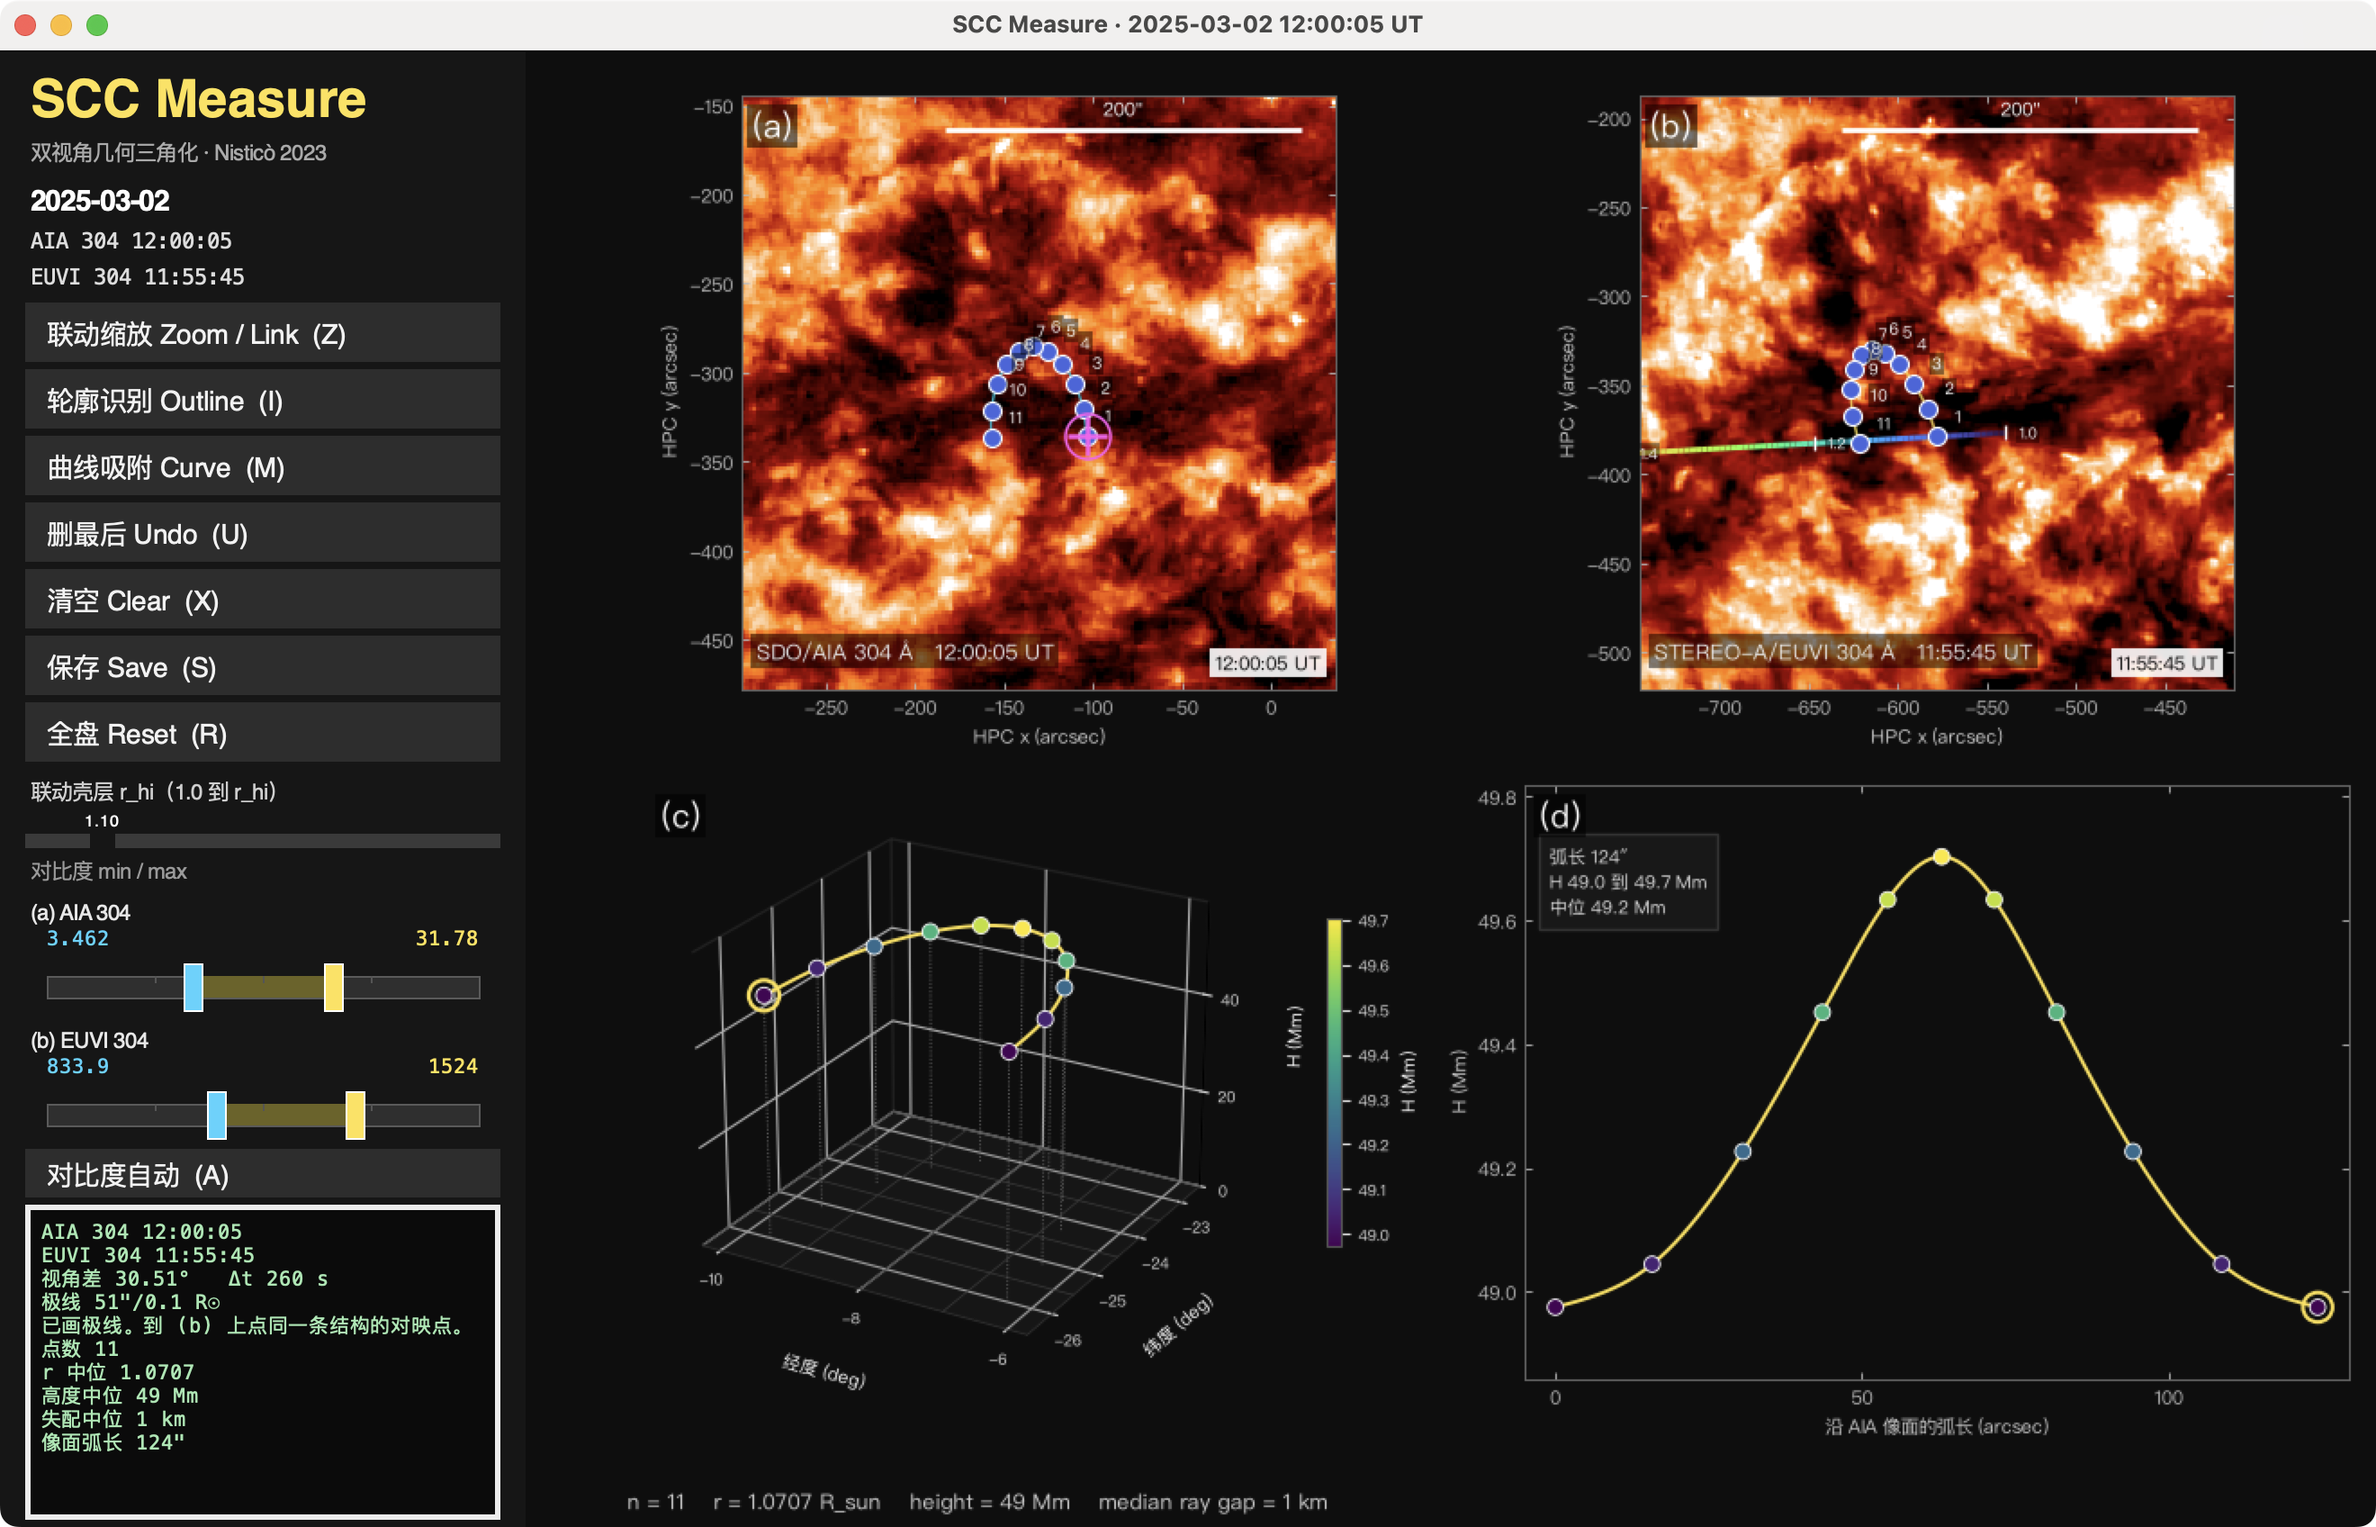
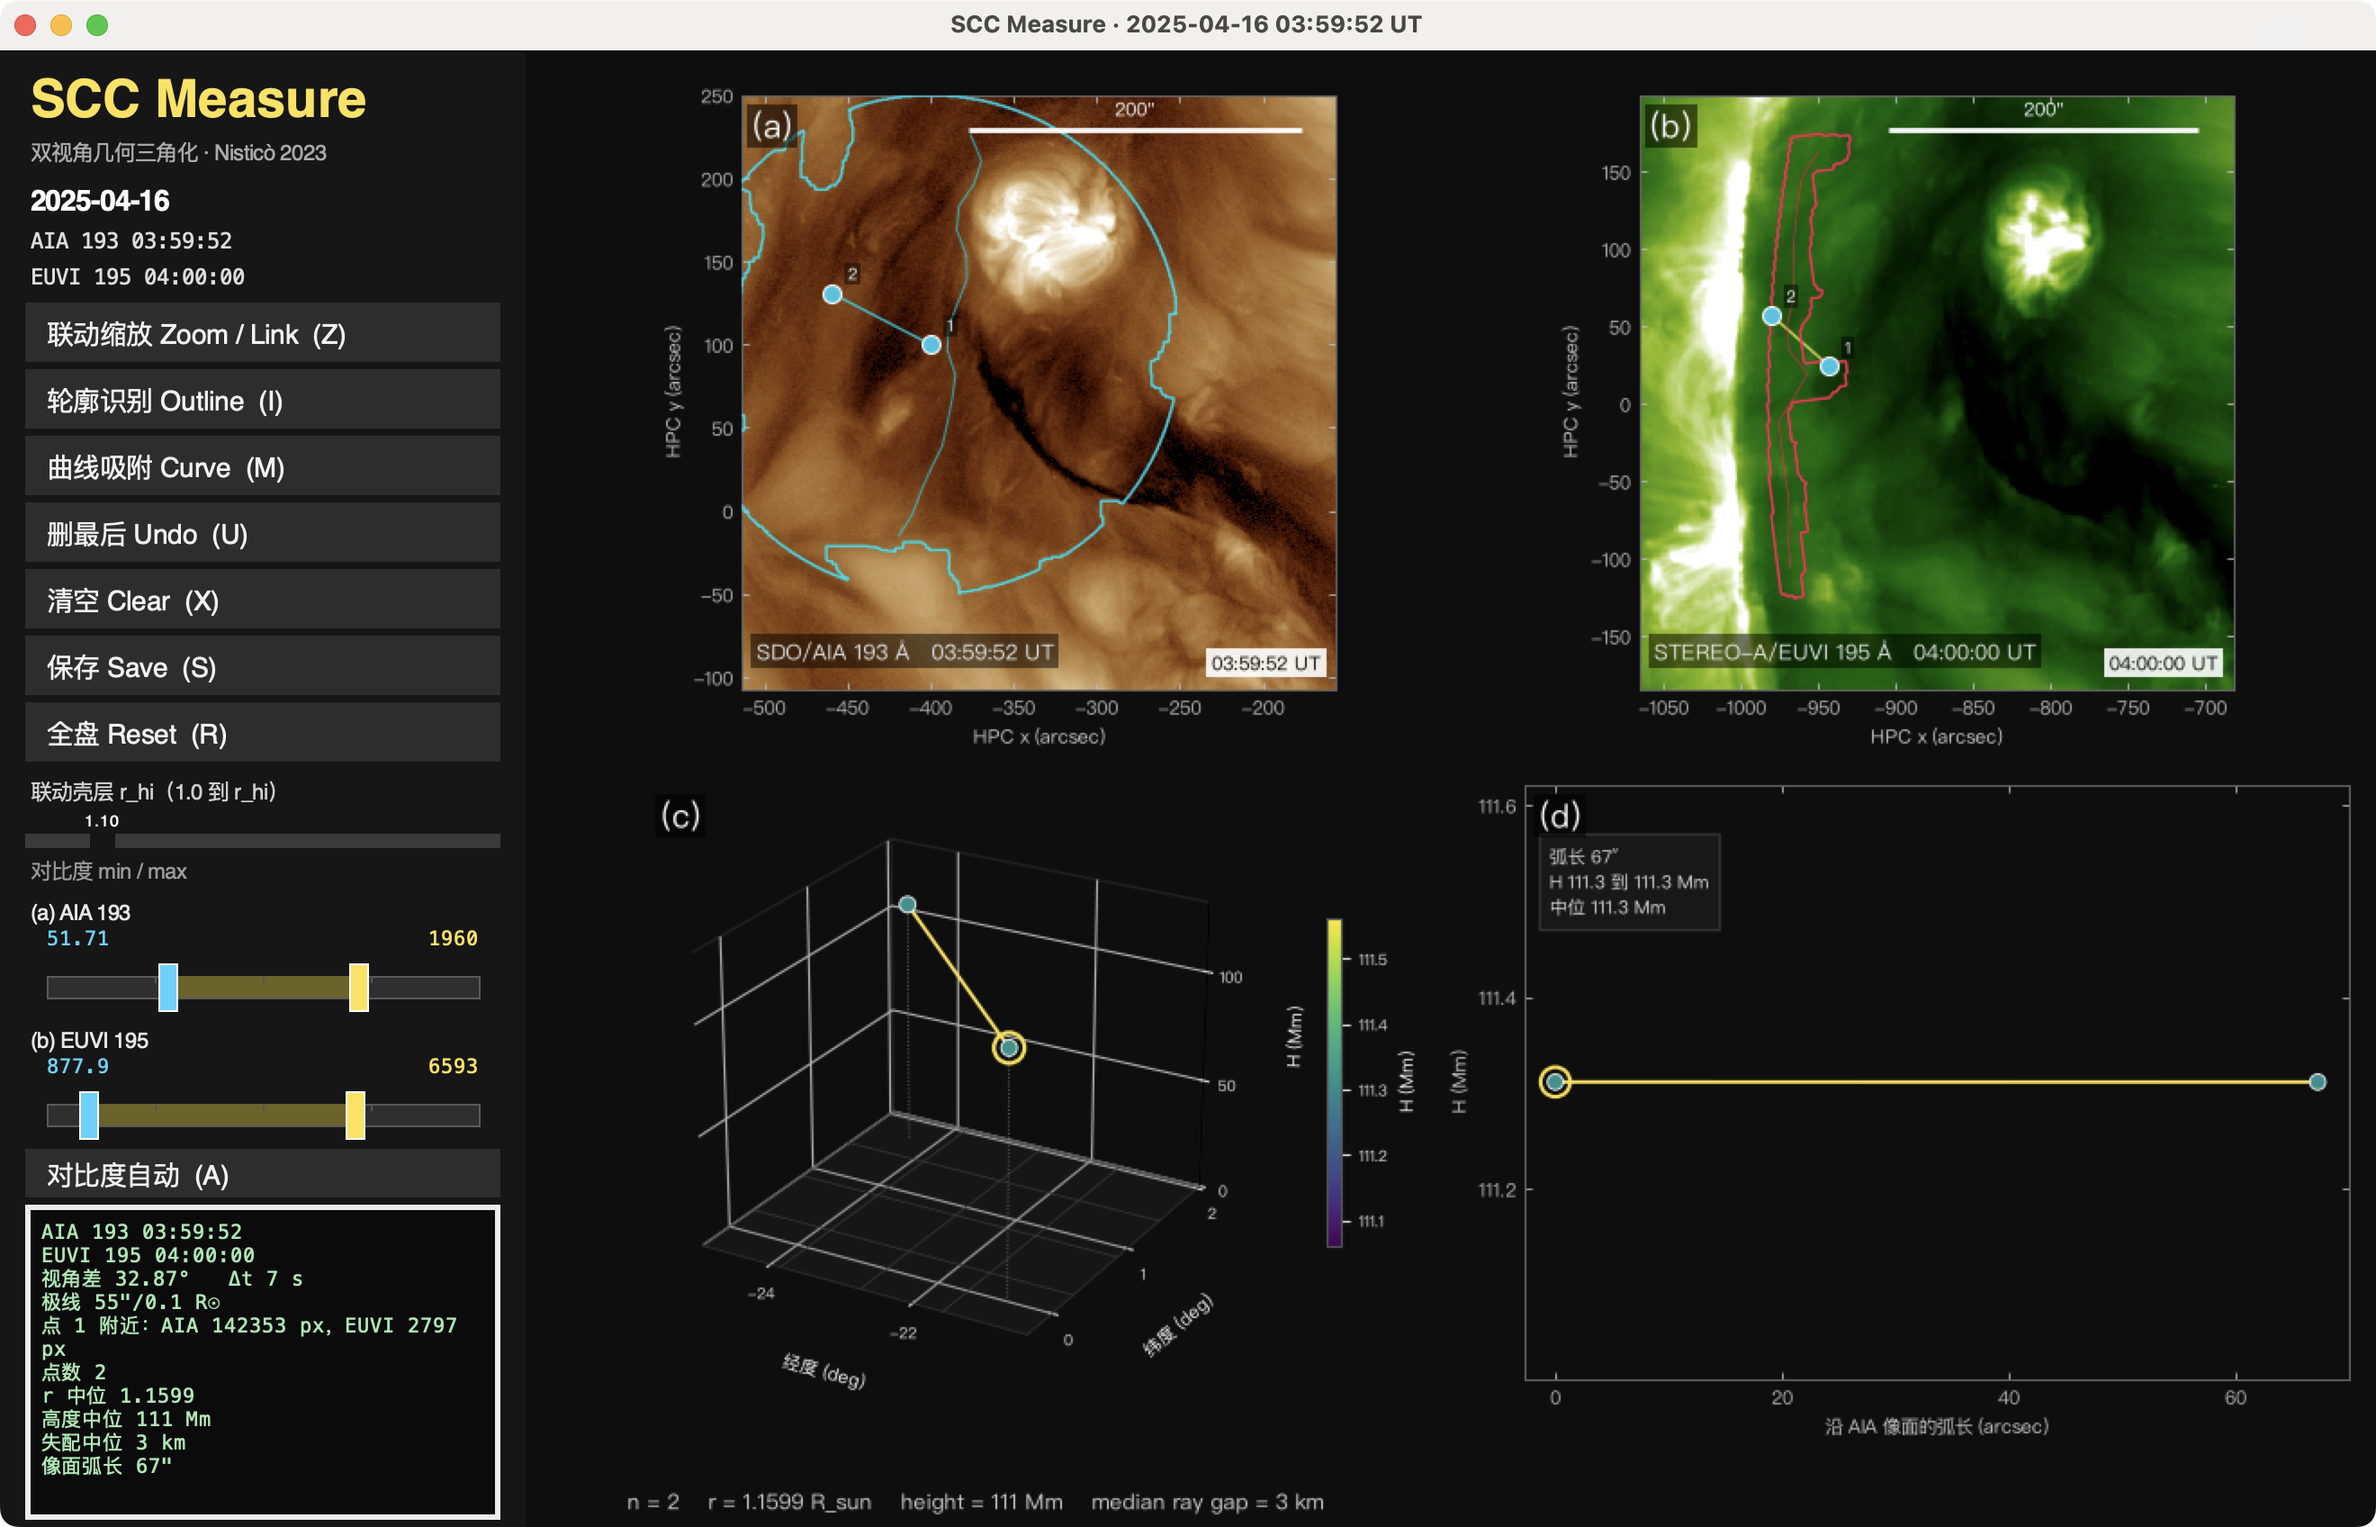
docs: use the 193/195 screenshot and remove stale band mentions

diff --git a/README.md b/README.md
@@ -174,7 +174,7 @@ MIT，见 [LICENSE](LICENSE)。
 ## 已知限制
 
 1. 误差主要来自人工点选。两个视角都要能认出同一个结构，分离角小于 5 度时高度没有分辨力。
-2. Outline 只是引导，AIA 304/193 的暗区连片时轮廓会很宽，最终点必须人工确认。
+2. Outline 只是引导，AIA 的暗区连片时轮廓会很宽，最终点必须人工确认。
 3. Curve 只回答「新点落在已有结构的延长线上」，曲线还没到当前极线时会拒绝。
 4. 两幅像时刻不同步时，公共架固定在后一个时刻，结果表里应注明时差。
 5. 当前只做了单帧交互，批量多时刻还需要再加帧列表与翻页。
